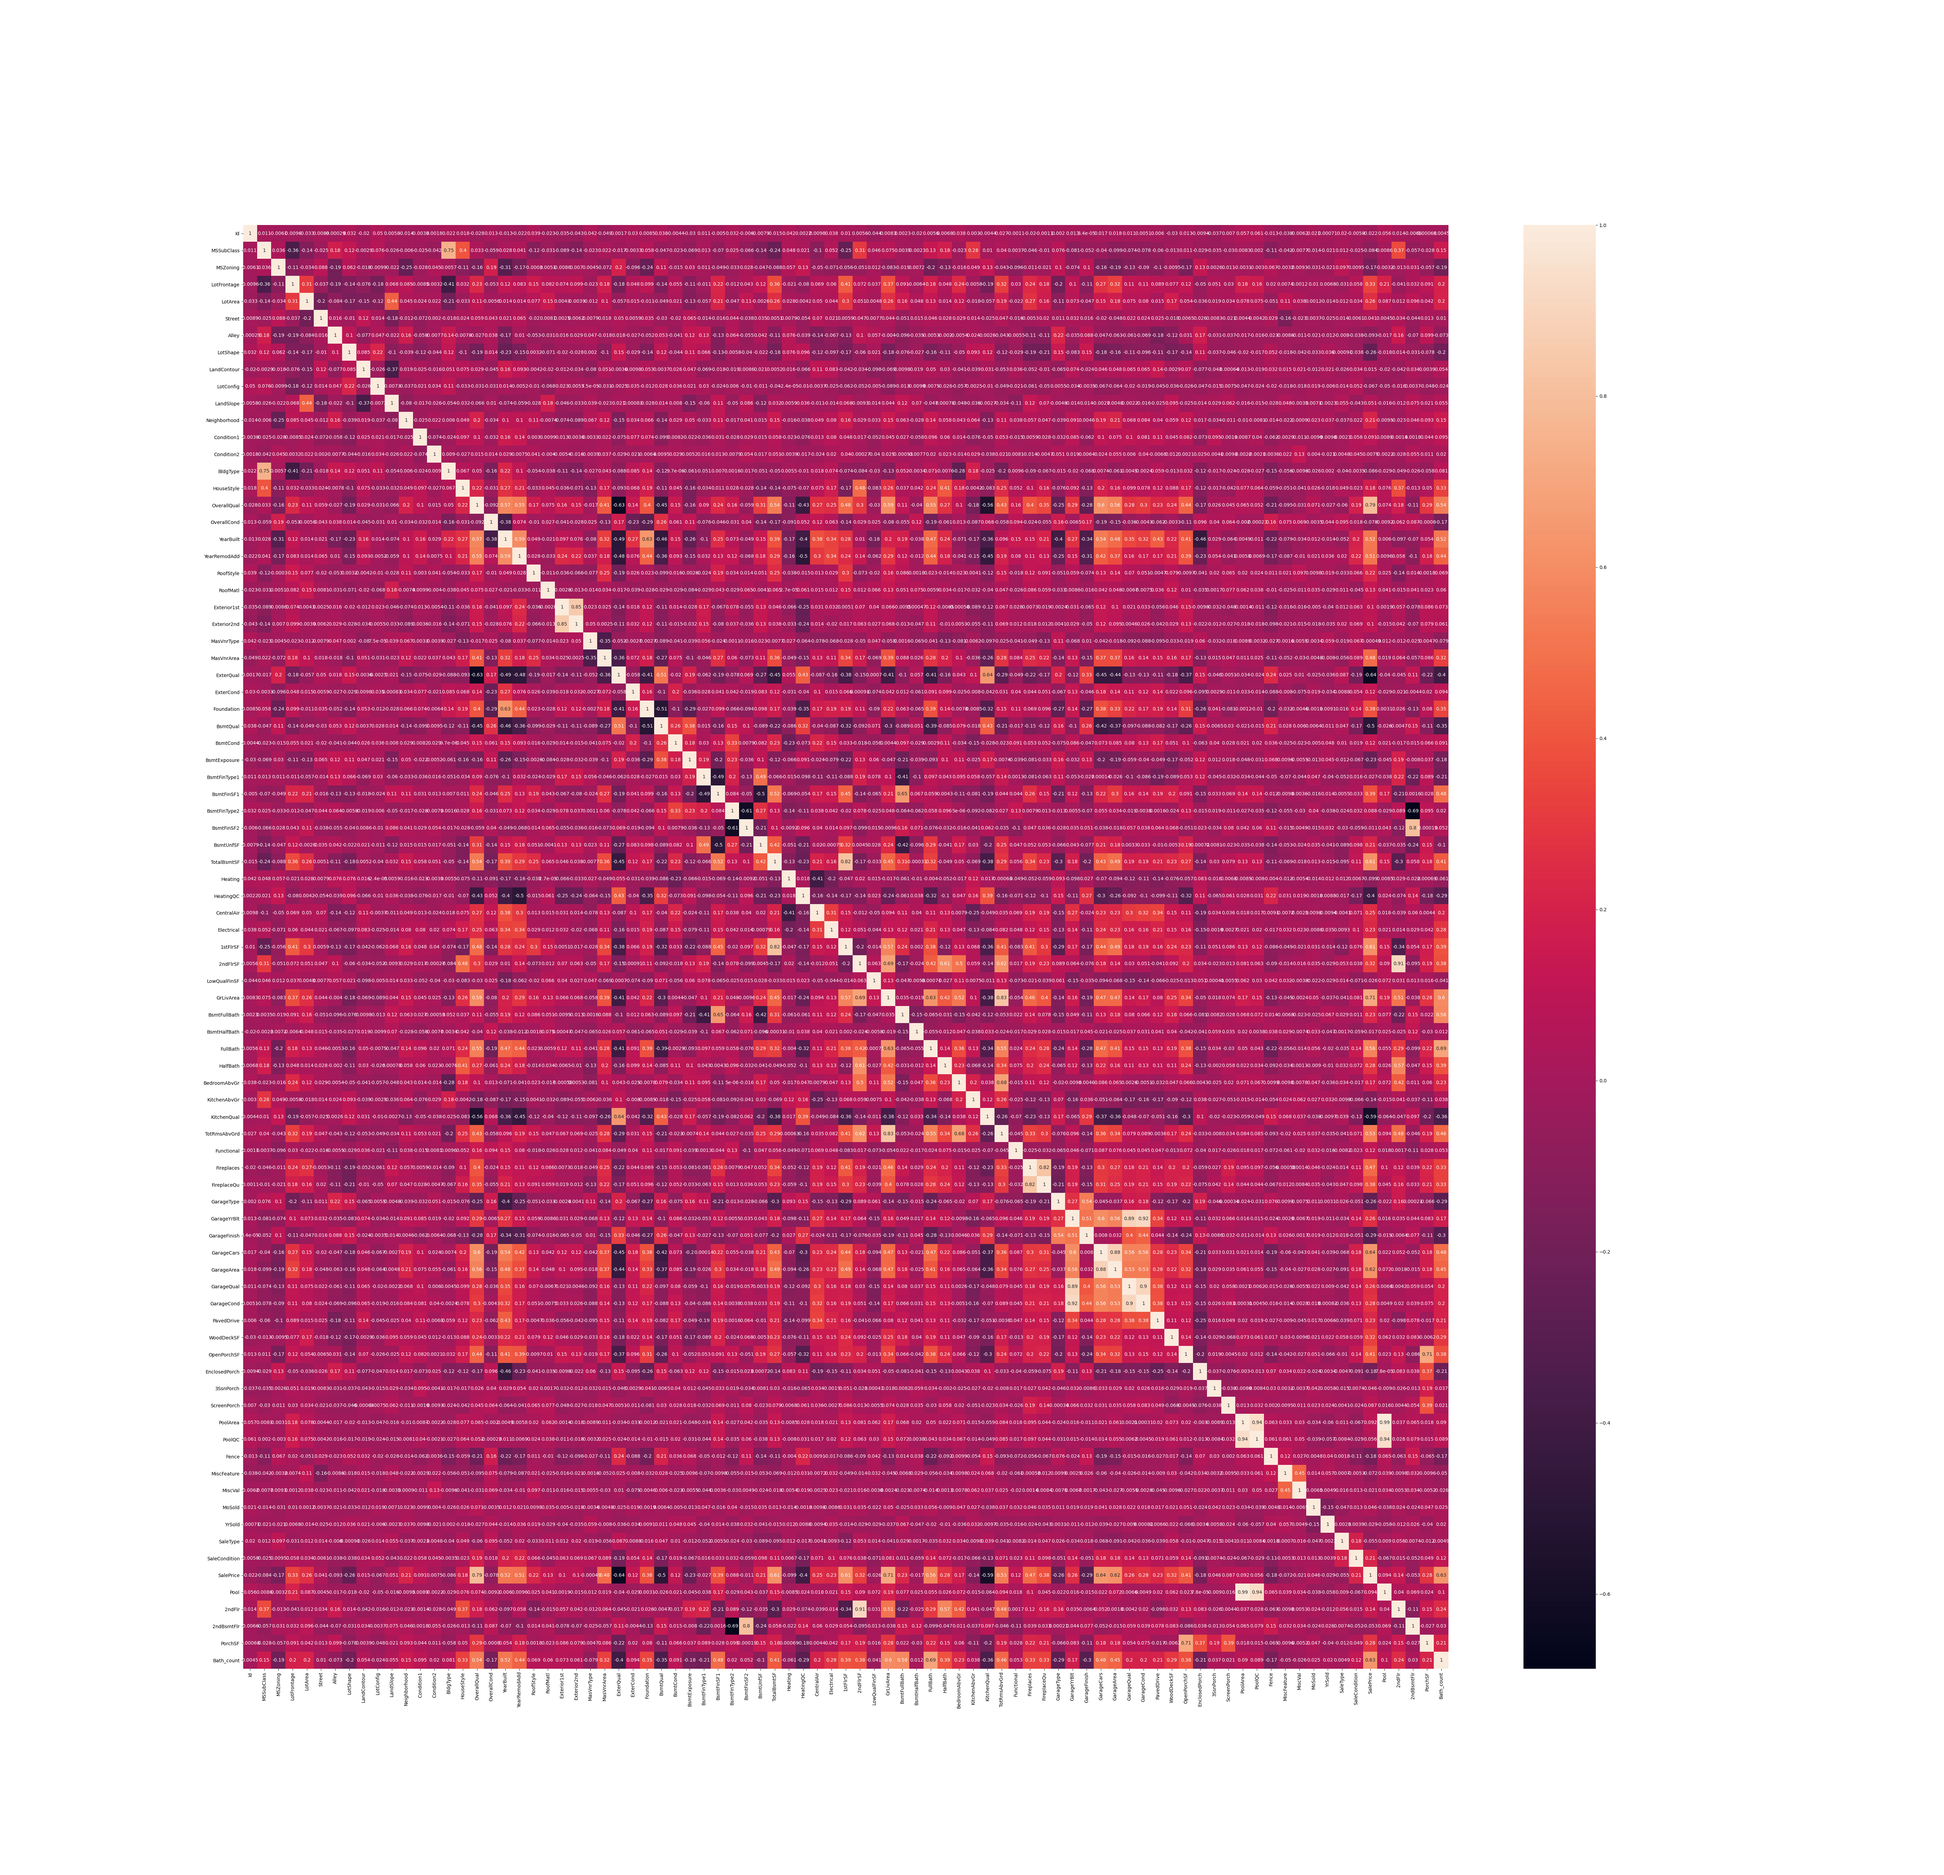
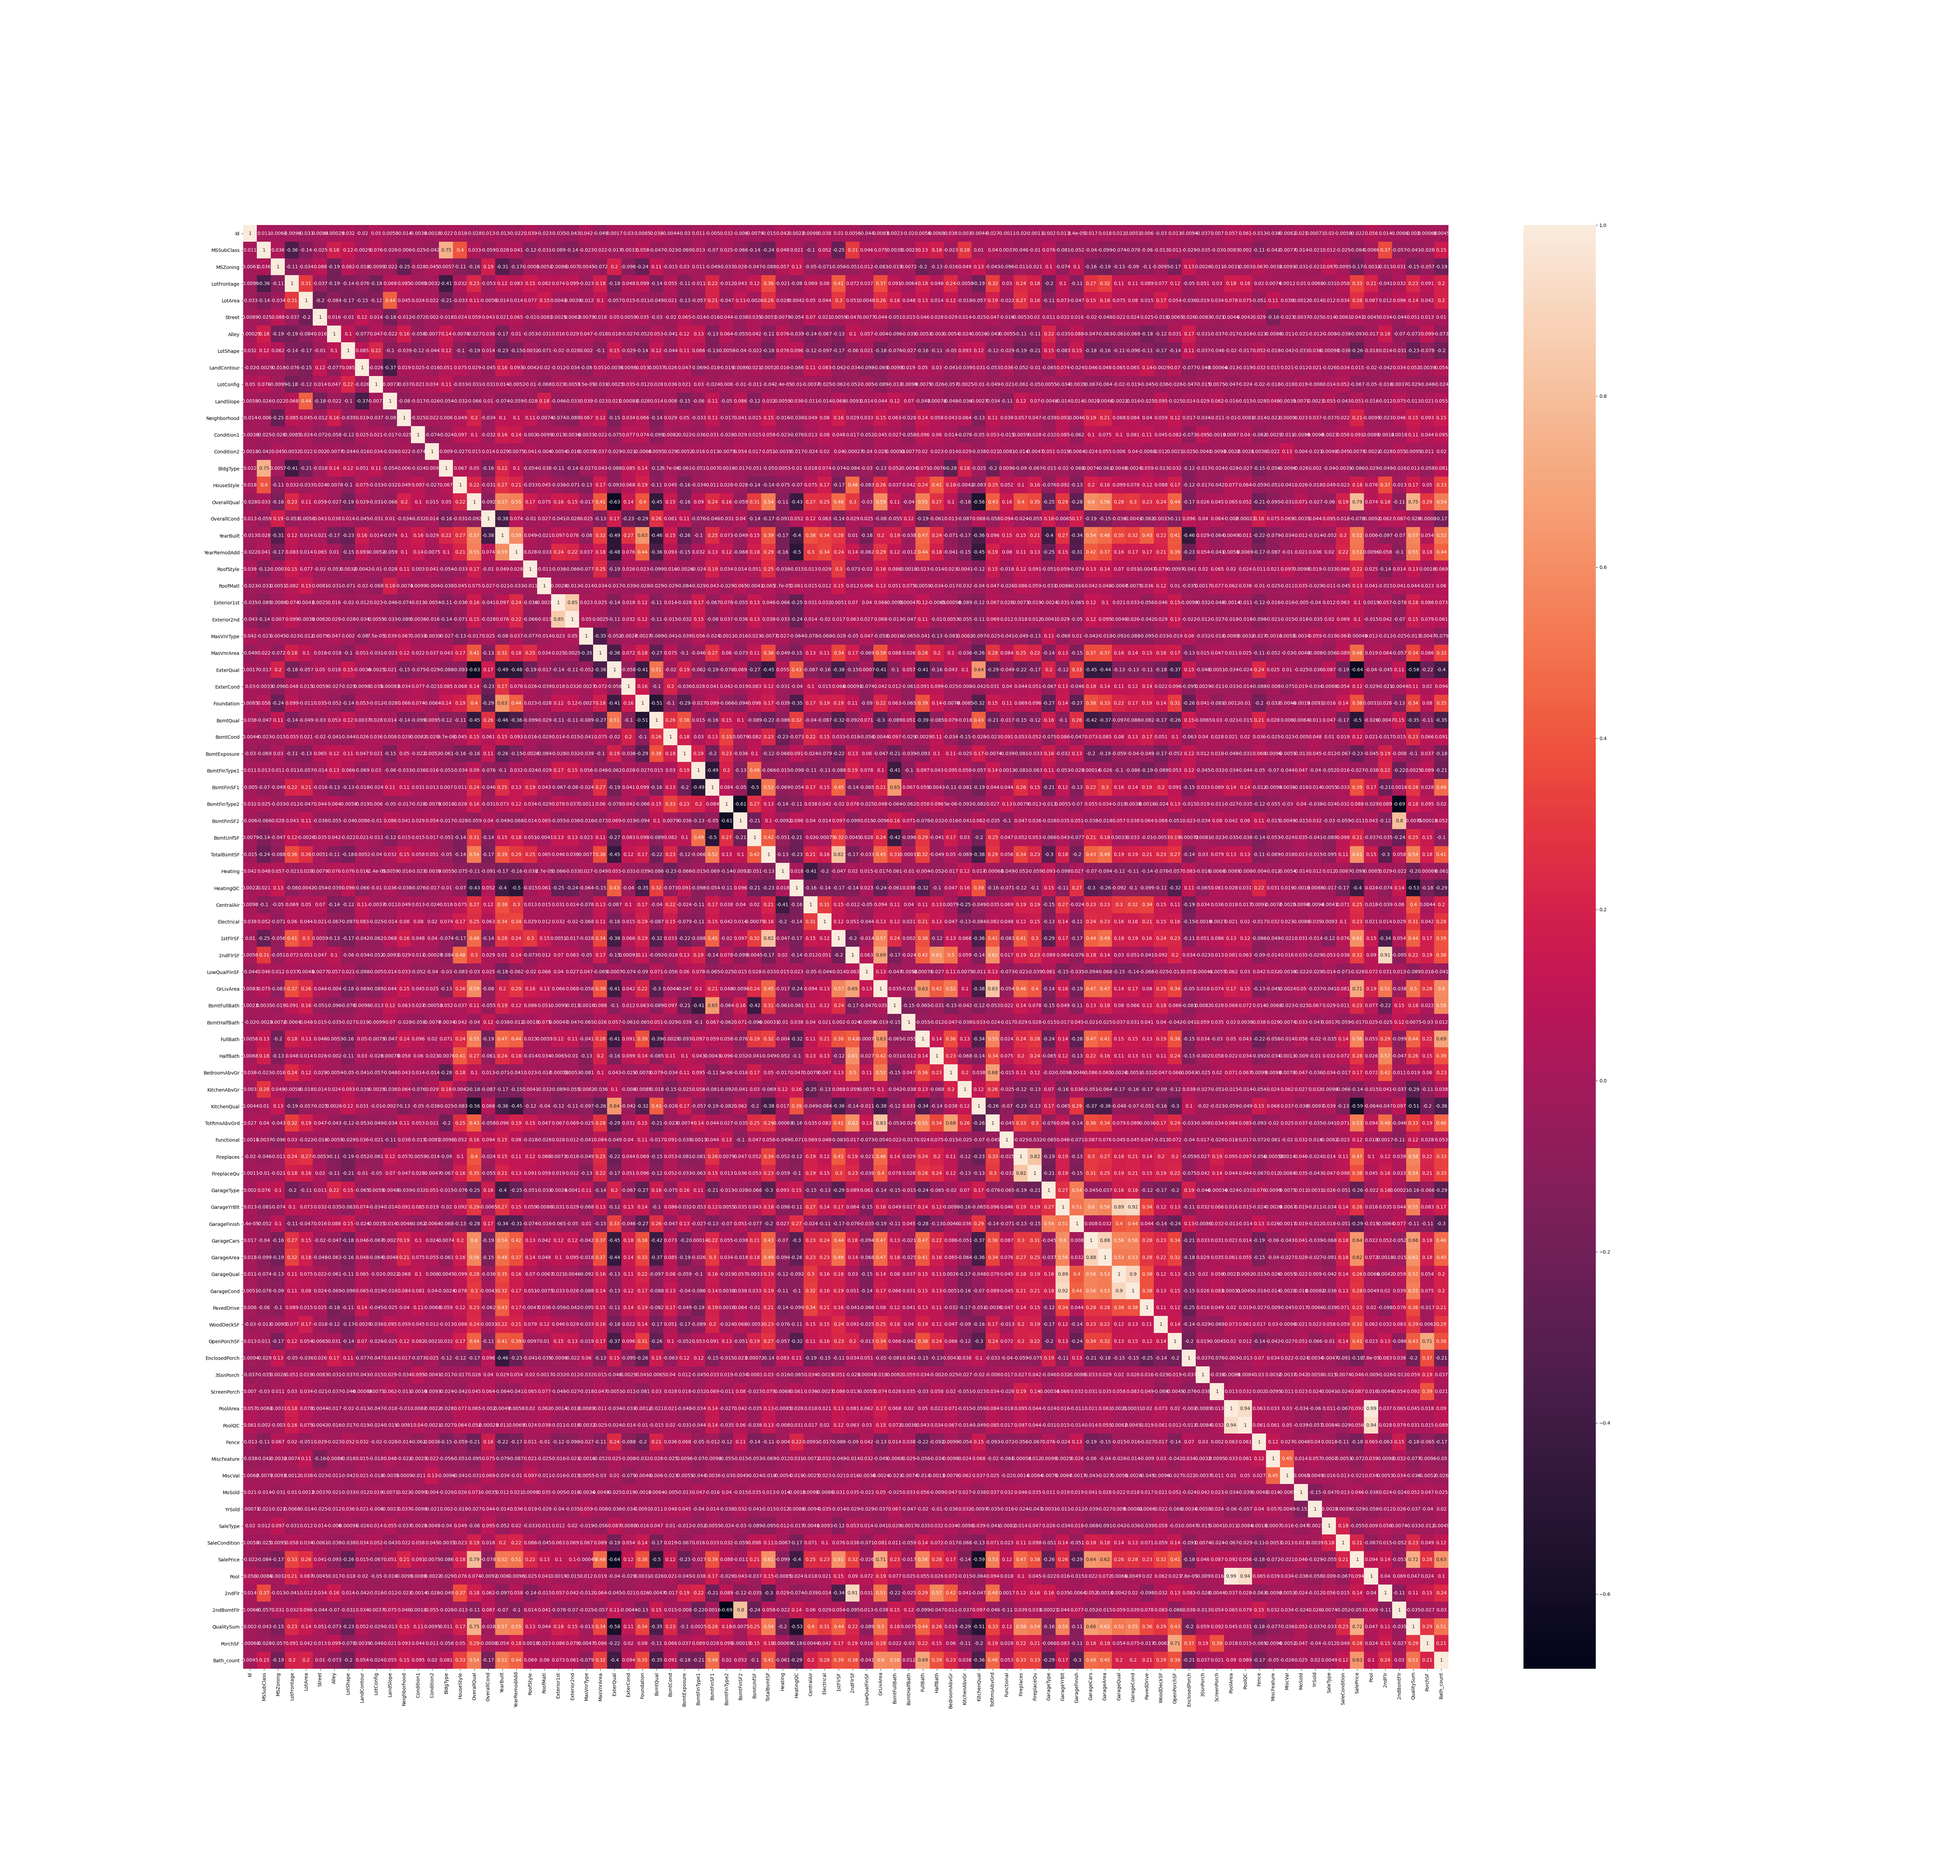
Feature contribution

Changed region(s): [[0.0937, 0.1244, 0.7495, 0.9016]]

diff --git a/train.py b/train.py
@@ -48,9 +48,10 @@ print(train.groupby('Neighborhood', as_index=False)['YearBuilt'].mean())
 data = [train,test]
 numeric_list = ['Alley','Street','PoolQC','MiscFeature','Pool','2ndFlr']
 encode_list = ['GarageQual','GarageCond','GarageFinish','GarageType','Heating','HeatingQC','CentralAir','ExterCond','ExterQual','MSZoning','BsmtQual','BsmtCond','BsmtExposure','BsmtFinType1','BsmtFinType2','Foundation','PavedDrive','Functional','Electrical','SaleType','SaleCondition','Fence','FireplaceQu','KitchenQual','LotConfig','LandSlope','Neighborhood','LandContour','LotShape','Condition1','Condition2','BldgType','HouseStyle','RoofStyle','RoofMatl','Exterior1st','Exterior2nd','MasVnrType']
-drop_list_columns = ['Utilities','PoolArea','FireplaceQu','MasVnrType','TotRmsAbvGrd','Condition2','LandContour','Id','MiscVal','YrSold','LowQualFinSF','BsmtFinType1','BsmtFinType2','PoolQC','Street','MoSold','LandSlope','Exterior2nd','MSSubClass','Foundation','SaleType','LotConfig','2ndBsmtFlr','1stFlrSF','2ndFlrSF']
-quantile_list = ['SalePrice','LotArea','LotFrontage','YearBuilt','GrLivArea','TotalBsmtSF','GrLivArea','MasVnrArea','BsmtUnfSF','BsmtFinSF1','BsmtFinSF2','1stFlrSF','2ndFlrSF','GarageArea','WoodDeckSF','PorchSF']
+drop_list_columns = ['Utilities','PoolArea','FireplaceQu','MasVnrType','TotRmsAbvGrd','Condition2','LandContour','Id','MiscVal','YrSold','LowQualFinSF','BsmtFinType1','BsmtFinType2','PoolQC','Street','MoSold','LandSlope','Exterior2nd','Foundation','SaleType','LotConfig','2ndBsmtFlr','1stFlrSF','2ndFlrSF']
+quantile_list = ['SalePrice','LotArea','LotFrontage','YearBuilt','GrLivArea','TotalBsmtSF','GrLivArea','MasVnrArea','BsmtUnfSF','BsmtFinSF1','BsmtFinSF2','1stFlrSF','2ndFlrSF','GarageArea','WoodDeckSF','PorchSF','QualitySum','OverallQual']
 garage_list = ['GarageType','GarageYrBlt','GarageFinish','GarageQual','GarageCond','GarageArea']
+quality_sum_list =['ExterQual','ExterCond','BsmtQual','BsmtCond','HeatingQC','KitchenQual','FireplaceQu','GarageQual','GarageCond','PoolQC']
 bath_list = ['BsmtFullBath','BsmtHalfBath','FullBath','HalfBath']
 bmst_list = ['BsmtQual','BsmtCond','BsmtExposure','BsmtFinType1','BsmtFinType2','BsmtUnfSF','BsmtFinSF1']
 porch_list = ['OpenPorchSF','ScreenPorch','EnclosedPorch','3SsnPorch']
@@ -135,6 +136,18 @@ for i in data:
 			i.at[k, '2ndBsmtFlr'] = 1
 		else:
 			i.at[k, '2ndBsmtFlr'] = 0
+		i.at[k, 'QualitySum'] = 0
+		for l in quality_sum_list:
+			if i.at[k, l] == 'Ex':
+				i.at[k, 'QualitySum'] += 5
+			elif i.at[k, l] == 'Gd':
+				i.at[k, 'QualitySum'] += 4
+			elif i.at[k, l] == 'TA':
+				i.at[k, 'QualitySum'] += 3
+			elif i.at[k, l] == 'Fa':
+				i.at[k, 'QualitySum'] += 2
+			elif i.at[k, l] == 'Po':
+				i.at[k, 'QualitySum'] += 1				
 		##i.at[k, 'BuildSF'] = i.at[k, '1stFlrSFSF'] + i.at[k, '2ndFlrSF']
 		i.at[k, 'PorchSF'] = i.at[k, 'OpenPorchSF'] + i.at[k, 'EnclosedPorch'] + i.at[k, '3SsnPorch'] + i.at[k, 'ScreenPorch']
 		i.at[k, 'Bath_count'] = i.at[k, 'BsmtFullBath'] + i.at[k, 'FullBath'] + 0.5*i.at[k, 'BsmtHalfBath'] + 0.5*i.at[k, 'HalfBath']
@@ -213,7 +226,7 @@ for i in data:
 
 ###remove columns with low correlation to price
 for col in train.columns:
-	if math.sqrt((train['SalePrice'].corr(train[col]))**2) < 0.2:
+	if math.sqrt((train['SalePrice'].corr(train[col]))**2) < 0.1:
 		train.drop(col, axis=1, inplace=True)
 		test.drop(col, axis=1, inplace=True)
 
@@ -282,7 +295,10 @@ xg_reg.fit(x_train,y_train)
 Y_pred = xg_reg.predict(x_test)
 ##print("Accuracy XGBoost (RMSLE):",np.sqrt(metrics.mean_squared_log_error(y_test, Y_pred)))
 print("Accuracy XGBoost (RMSLE):",np.sqrt(metrics.mean_squared_log_error(np.expm1(y_test), np.expm1(Y_pred))))
-
+f,ax = plt.subplots(figsize=(10,10))
+xgb.plot_importance(xg_reg,ax=ax,color='red')
+plt.savefig('graphs/feature_contribution_xgboost.png')
+plt.close
 ####Optimized XGBoost
 # param_grid = {
 #      'colsample_bytree': np.linspace(0.3, 1, 4),
